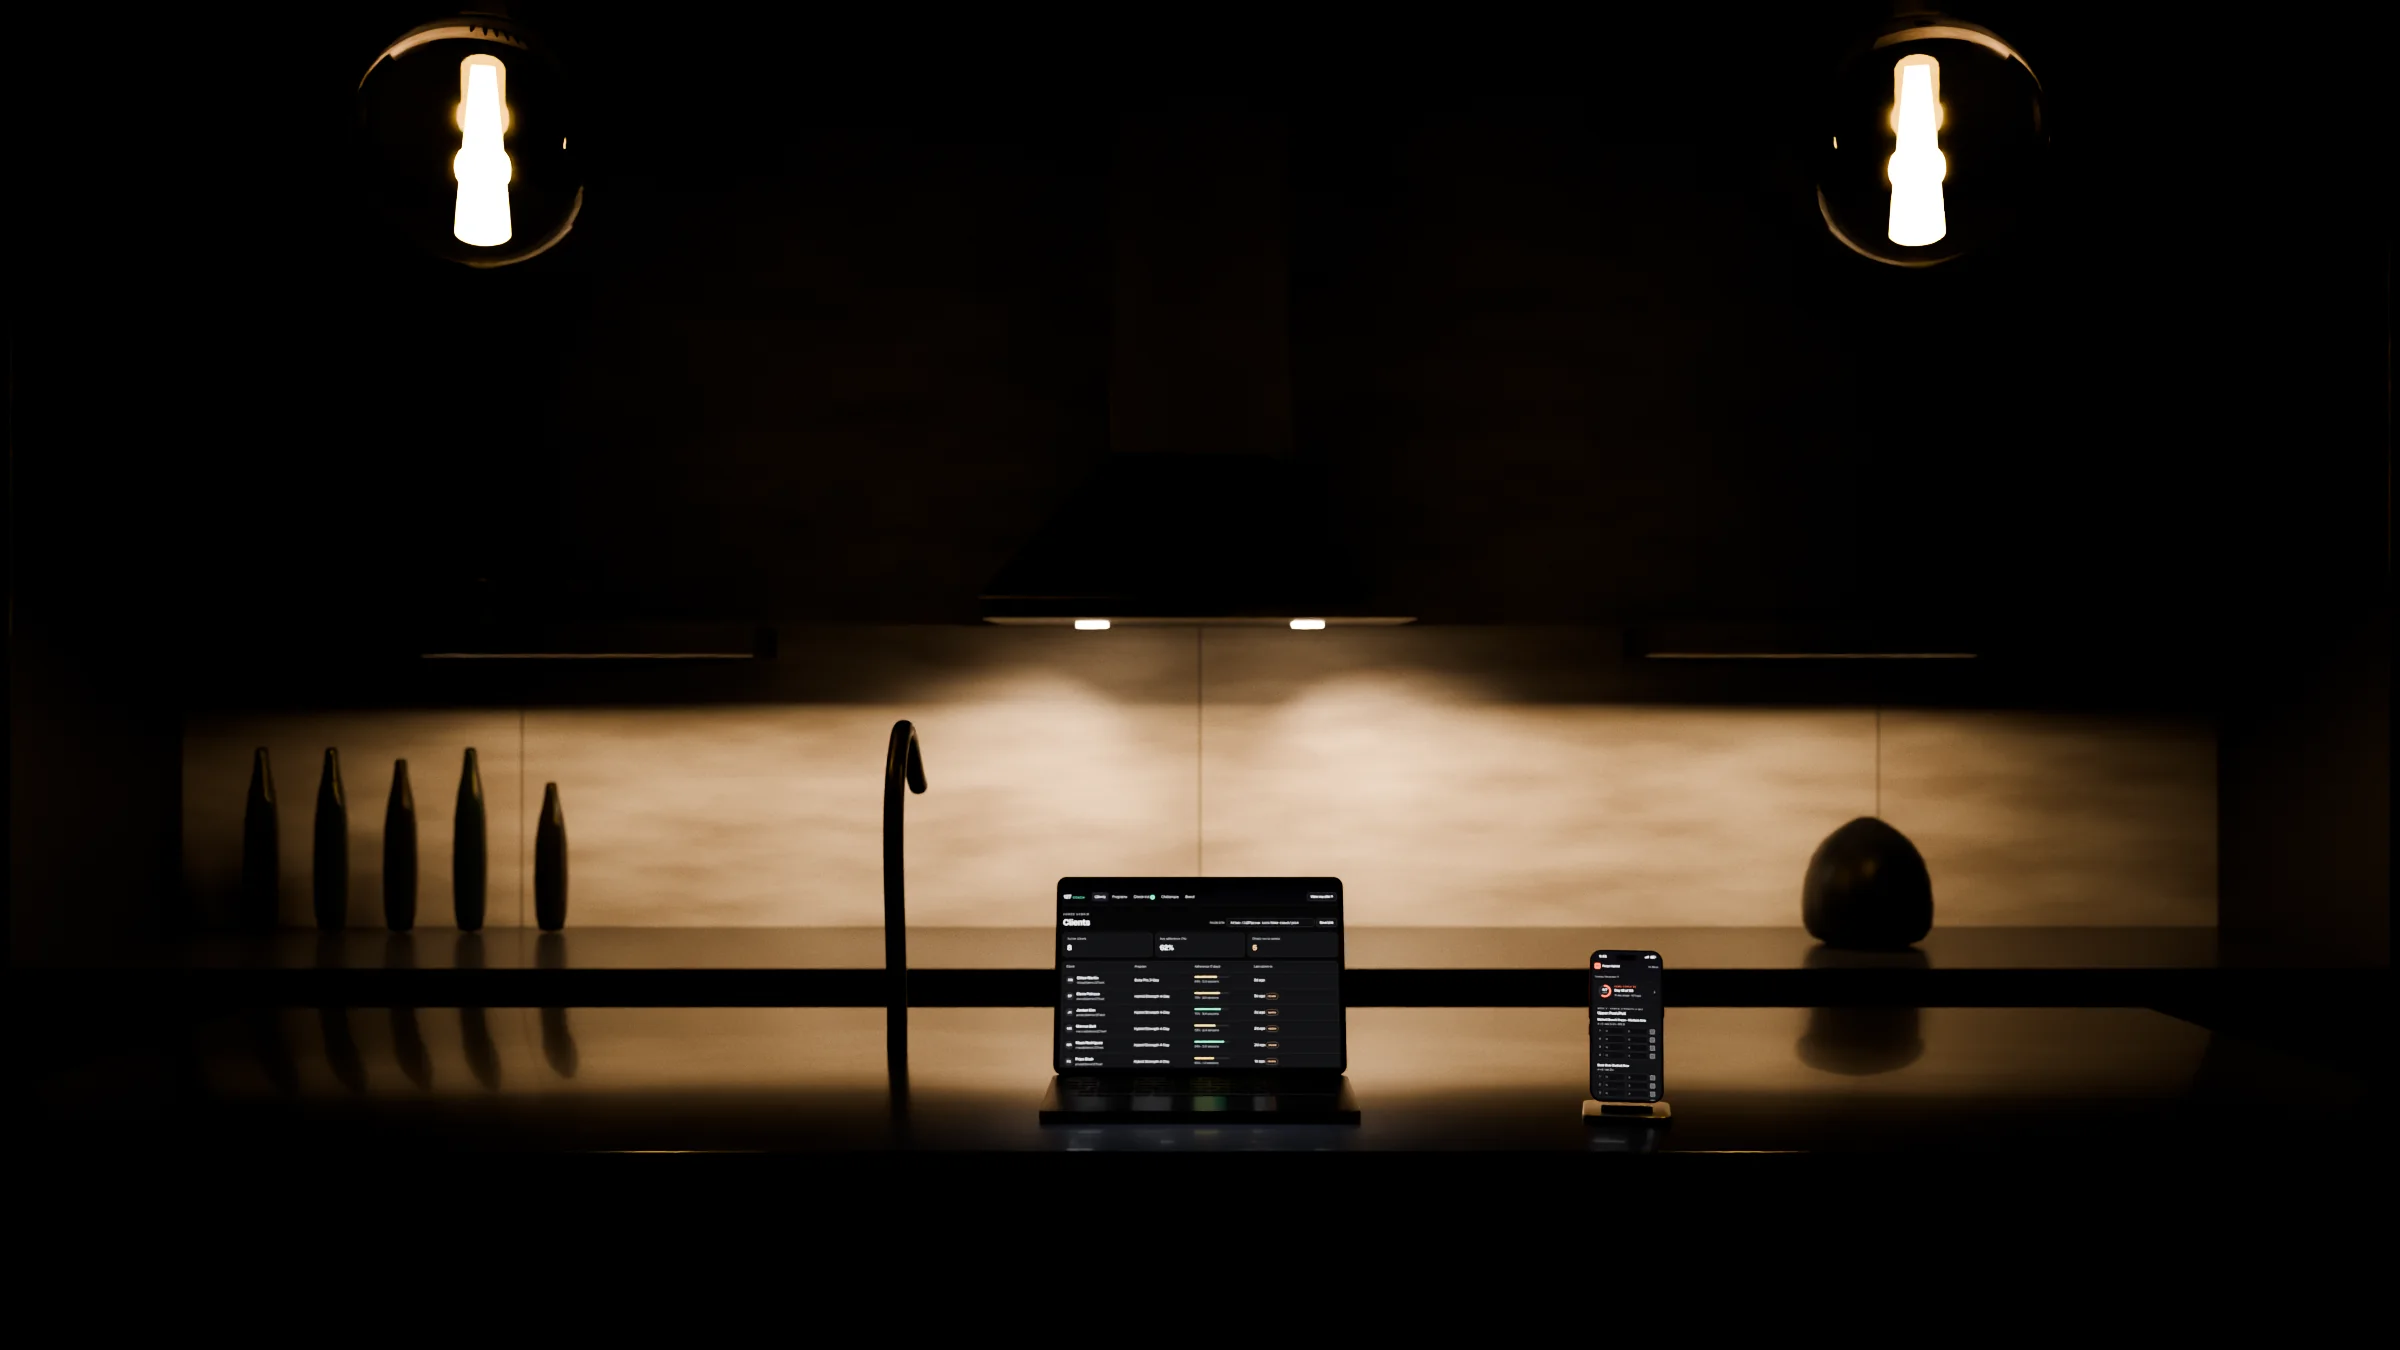
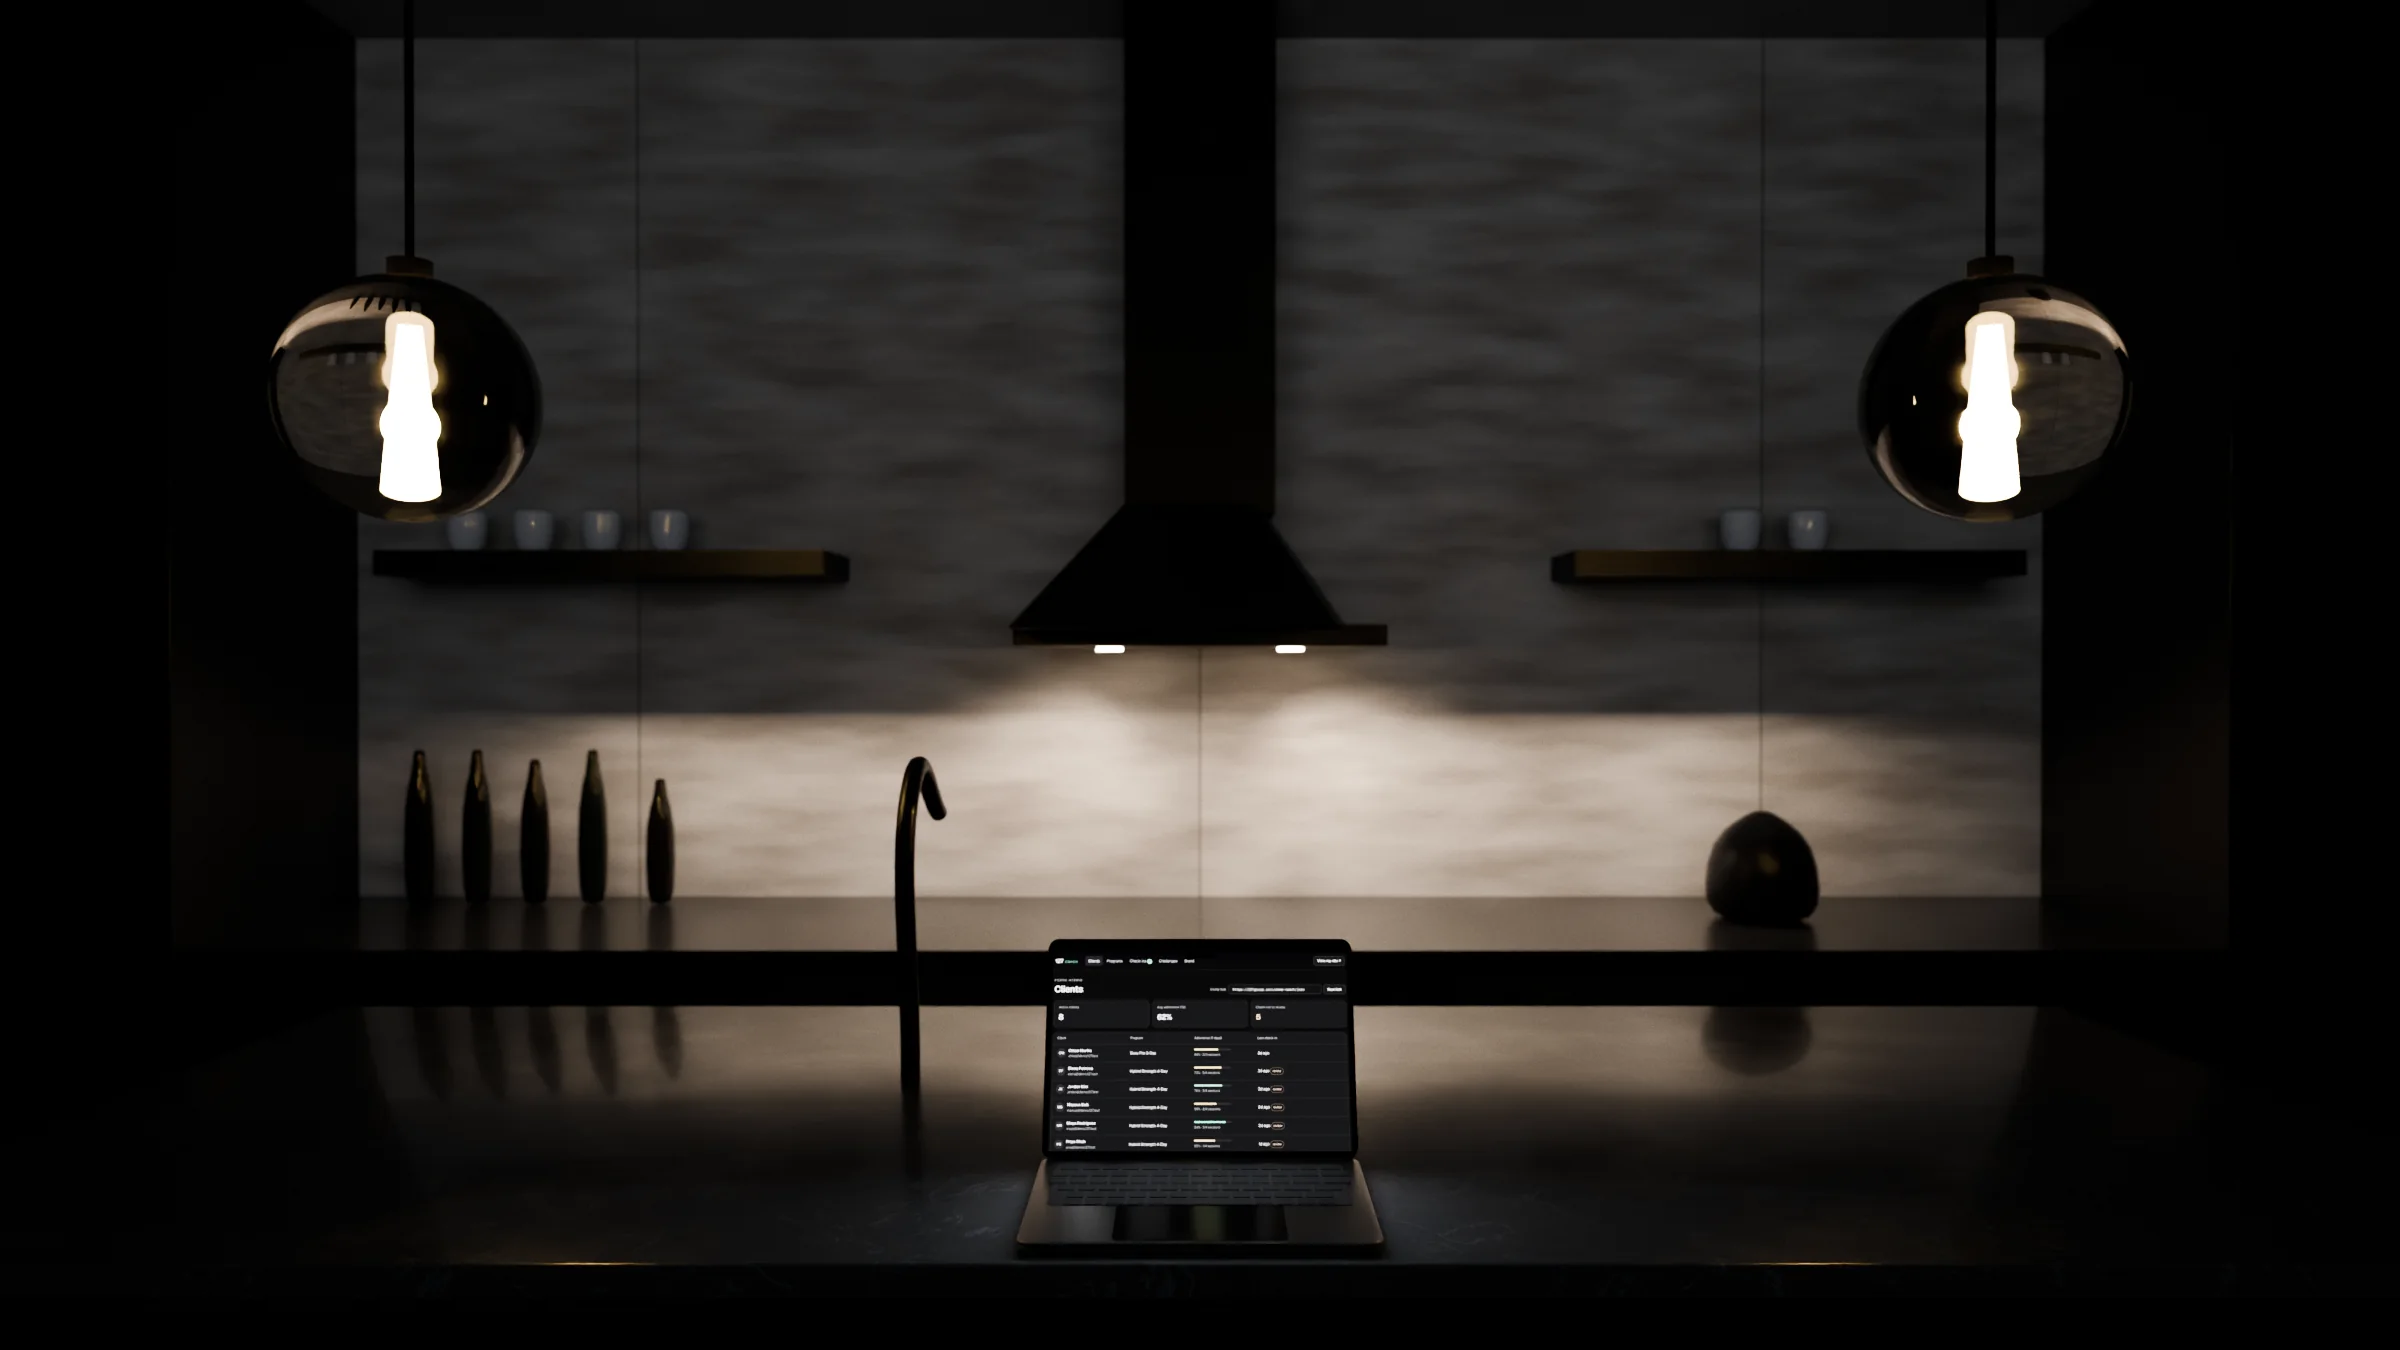
Coach home hero: closer to Eli's reference - cobalt accent, white wordmark, room lifted out of the black, laptop front and center
Claude-Session: https://claude.ai/code/session_01DVS861AoZnrc7WLLu9kCTF

diff --git a/public/coaches/index.html b/public/coaches/index.html
@@ -28,8 +28,8 @@
 @font-face{font-family:Geist;src:url(/fonts/Geist-Bold.woff2) format("woff2");font-weight:700;font-display:swap}
 :root{
   --bg:#060607;--surface:#0e0e11;--surface-2:#141418;--surface-3:#1b1b20;--ink:#ededf2;--ink-2:#b3b3bd;--muted:#8b8b96;
-  --line:rgba(255,255,255,.08);--line-2:rgba(255,255,255,.14);--emerald:#3ee6a0;--emerald-deep:#0e7a55;--orchid:#a98bff;
-  --soft:rgba(62,230,160,.09);--r:18px;--font:Geist,-apple-system,BlinkMacSystemFont,"Helvetica Neue",Arial,sans-serif;
+  --line:rgba(255,255,255,.08);--line-2:rgba(255,255,255,.14);--emerald:#3b63ff;--emerald-deep:#0e7a55;--orchid:#a98bff;
+  --soft:rgba(59,99,255,.12);--r:18px;--font:Geist,-apple-system,BlinkMacSystemFont,"Helvetica Neue",Arial,sans-serif;
   --coach:#C83A75;color-scheme:dark;
 }
 *{box-sizing:border-box}
@@ -42,10 +42,10 @@ button,input,select,textarea{font:inherit;color:inherit}
 .mark{font-weight:700;font-size:22px;letter-spacing:-.04em;color:var(--emerald);text-decoration:none}
 .top nav{margin-left:auto;display:flex;gap:6px;align-items:center}
 .top nav a{text-decoration:none;color:var(--ink-2);font-size:14px;padding:8px 10px}
-.btn{display:inline-flex;align-items:center;justify-content:center;gap:8px;min-height:48px;padding:0 20px;border-radius:999px;border:0;background:var(--emerald);color:#03140c;font-weight:600;text-decoration:none;cursor:pointer}
+.btn{display:inline-flex;align-items:center;justify-content:center;gap:8px;min-height:48px;padding:0 20px;border-radius:999px;border:0;background:var(--emerald);color:#ffffff;font-weight:600;text-decoration:none;cursor:pointer}
 .btn.ghost{background:transparent;color:var(--ink);border:1px solid var(--line-2)}
 .btn.sm{min-height:38px;padding:0 14px;font-size:14px}
-.top .btn{min-height:38px;font-size:14px;color:#03140c;padding:0 16px}
+.top .btn{min-height:38px;font-size:14px;color:#ffffff;padding:0 16px}
 .kit,.sec{scroll-margin-top:70px}
 @media(max-width:520px){.top nav a.hide-s{display:none}}
 
@@ -236,7 +236,7 @@ footer .foot p{margin:0}
 .note-pop.on{opacity:1;transform:none}
 .note-pop small{display:block;color:#8b8b96;font-size:11px}
 .note-pop .ic{width:28px;height:28px;border-radius:9px;display:grid;place-items:center;font-weight:700;font-size:11px;flex:none}
-.note-pop .ic.o{background:#ff5c2e;color:#1a0700}.note-pop .ic.g{background:var(--emerald);color:#03140c}
+.note-pop .ic.o{background:#ff5c2e;color:#1a0700}.note-pop .ic.g{background:var(--emerald);color:#ffffff}
 .n1{left:860px;top:430px}.n2{left:150px;top:24px}
 .stage.narrow .n1{left:130px;top:440px}.stage.narrow .n2{left:24px;top:30px}
 
@@ -337,7 +337,7 @@ h1.h1,.h1{font-size:clamp(30px,6vw,52px);line-height:1.04;letter-spacing:-.04em;
 .top nav.end a{text-decoration:none;color:var(--ink-2);font-size:15px;padding:8px 10px}
 .top{background:rgba(6,6,7,.55)}
 .btn.sq{border-radius:10px}
-.top nav.end .btn.sq{min-height:40px;padding:0 18px;color:#03140c;font-size:15px}
+.top nav.end .btn.sq{min-height:40px;padding:0 18px;color:#ffffff;font-size:15px}
 .btn.lg{min-height:52px;padding:0 26px;font-size:17px}
 .loft-copy h1{max-width:19ch;color:#f4f4f7;font-weight:600;letter-spacing:-.045em;font-size:clamp(36px,4.6vw,64px);line-height:1.04}
 .loft-copy .lede{color:#c9c9d1;font-size:clamp(17px,1.7vw,21px);max-width:34ch;margin:0 auto 26px}
@@ -346,6 +346,25 @@ h1.h1,.h1{font-size:clamp(30px,6vw,52px);line-height:1.04;letter-spacing:-.04em;
 .loft-hint{font-size:13px;letter-spacing:.02em}
 @media(max-width:760px){.top nav.mid{display:none}}
 @media(max-width:560px){.loft-copy .cta-row{flex-direction:column;gap:10px}.loft-copy .cta-row .btn{width:100%;max-width:340px}.cta-note{font-size:14px}}
+
+/* Eli's reference, closer: white wordmark, solid near-black bar, cobalt actions, medium-weight white headline. */
+.mark{color:#f4f4f2}
+.top{background:#070707;border-bottom:1px solid rgba(255,255,255,.06);backdrop-filter:none;-webkit-backdrop-filter:none}
+.top .wrap{height:66px}
+.btn{color:#fff}
+.btn.sq{border-radius:9px;background:#3b63ff}
+.btn.sq:hover{background:#4f73ff}
+.loft-copy{padding-top:calc(66px + clamp(28px,6vh,64px))}
+.loft-copy h1{font-weight:500;letter-spacing:-.035em;color:#f4f4f2;max-width:none;font-size:clamp(34px,4.5vw,66px);line-height:1.02;margin:0 auto 18px}
+.loft-copy .lede{color:#b9b9be;font-size:clamp(17px,1.6vw,21px);line-height:1.4;max-width:32ch}
+.cta-note{color:#a9a9ae;font-size:15px}
+.loft-copy .btn.lg{min-height:52px;padding:0 26px;font-size:17px;font-weight:500}
+.loft-pin::before{opacity:.8}
+.loft-hint{color:#8d8d93}
+.loft-hint i{display:none}
+.loft{margin-top:-67px}
+.loft-copy .cta-row .btn{flex:none;width:auto;min-width:0}
+@media(max-width:520px){br.hide-s{display:none}.loft-copy .cta-row .btn{width:100%}}
 </style>
 <style id="siteCss">
 /* The coach's site (kit page and the downloaded file). One markup, three looks (data-look), the coach's color as the
@@ -499,8 +518,8 @@ h1.h1,.h1{font-size:clamp(30px,6vw,52px);line-height:1.04;letter-spacing:-.04em;
 <body>
 <header class="top"><div class="wrap">
   <a class="mark" href="/">127</a>
-  <nav class="mid" aria-label="Main"><a href="#kit">The kit</a><a href="#pricing">Pricing</a><a href="/circle">Circle</a></nav>
-  <nav class="end"><a class="hide-s" href="/login?next=/coaches/%23kit">Sign in</a><a class="btn sq" href="/coaches/join?next=%2Fcoaches%2F%23build">Start free</a></nav>
+  <nav class="mid" aria-label="Main"><a href="#kit">Product</a><a href="#pricing">Pricing</a><a href="/circle">Circle</a></nav>
+  <nav class="end"><a class="hide-s" href="/login?next=/coaches/%23kit">Log in</a><a class="btn sq" href="/coaches/join?next=%2Fcoaches%2F%23build">Start free</a></nav>
 </div></header>
 
 <main>
@@ -515,11 +534,11 @@ h1.h1,.h1{font-size:clamp(30px,6vw,52px);line-height:1.04;letter-spacing:-.04em;
     </div>
     <img class="loft-scr" id="loftScr" alt="" aria-hidden="true" decoding="async">
     <div class="loft-copy" id="loftCopy">
-      <h1 id="heroTitle">Your own coaching platform, built from one form.</h1>
+      <h1 id="heroTitle">Your own coaching platform,<br class="hide-s"> built from one form.</h1>
       <p class="lede">Your website, client app, dashboard and launch kit. No app store. No developers.</p>
       <div class="cta-row">
         <a class="btn sq lg" href="/coaches/join?next=%2Fcoaches%2F%23build">Start free</a>
-        <span class="cta-note">Free to build. $149/mo when you're ready for clients.</span>
+        <span class="cta-note">Free to build. $149/mo when you launch.</span>
       </div>
     </div>
     <div class="loft-hint" aria-hidden="true"><i></i>Scroll</div>
@@ -552,7 +571,7 @@ h1.h1,.h1{font-size:clamp(30px,6vw,52px);line-height:1.04;letter-spacing:-.04em;
 (function(){
   // Where each device's screen sits in its render (top-left, top-right, bottom-right, bottom-left, as fractions of the image).
   var SHOTS = {
-    wide: { w: 2400, h: 1350, quad: [[0.44245, 0.6585], [0.55755, 0.6585], [0.55913, 0.79086], [0.44087, 0.79086]], scr: '/img/coach-hero/loft-mac-screen.webp', sw: 2279, sh: 1480, fill: [.94, .86], tag: 'Coach dashboard. Forge Hybrid is a demo coach.' },
+    wide: { w: 2400, h: 1350, quad: [[0.43903, 0.7055], [0.56097, 0.7055], [0.56361, 0.85281], [0.43639, 0.85281]], scr: '/img/coach-hero/loft-mac-screen.webp', sw: 2279, sh: 1480, fill: [.94, .86], tag: 'Coach dashboard. Forge Hybrid is a demo coach.' },
     tall: { w: 1080, h: 1920, quad: [[0.68892, 0.61777], [0.73957, 0.61833], [0.74319, 0.68403], [0.69076, 0.68299]], scr: '/img/coach-hero/loft-phone-screen.webp', sw: 780, sh: 1690, fill: [.8, .84], tag: 'Client app. Forge Hybrid is a demo coach.' }
   };
   var pin = document.getElementById('loftPin'), scene = document.getElementById('loftScene'), scr = document.getElementById('loftScr');
@@ -585,7 +604,7 @@ h1.h1,.h1{font-size:clamp(30px,6vw,52px);line-height:1.04;letter-spacing:-.04em;
     var s0 = Math.max(vw / S.w, vh / S.h), dw = S.w * s0, dh = S.h * s0;
     // Center on the device rather than the image, as far as the image allows.
     var qx = (S.quad[0][0] + S.quad[2][0]) / 2 * dw, qy = (S.quad[0][1] + S.quad[2][1]) / 2 * dh;
-    var ox = Math.min(0, Math.max(vw - dw, vw / 2 - qx)), oy = Math.min(0, Math.max(vh - dh, vh * .62 - qy));
+    var ox = Math.min(0, Math.max(vw - dw, vw / 2 - qx)), oy = Math.min(0, Math.max(vh - dh, vh * .76 - qy));
     cover = { s: s0, ox: ox, oy: oy, dw: dw, dh: dh };
     scene.style.width = dw + 'px'; scene.style.height = dh + 'px';
     quad = S.quad.map(function(p){ return [ox + p[0] * dw, oy + p[1] * dh]; });
